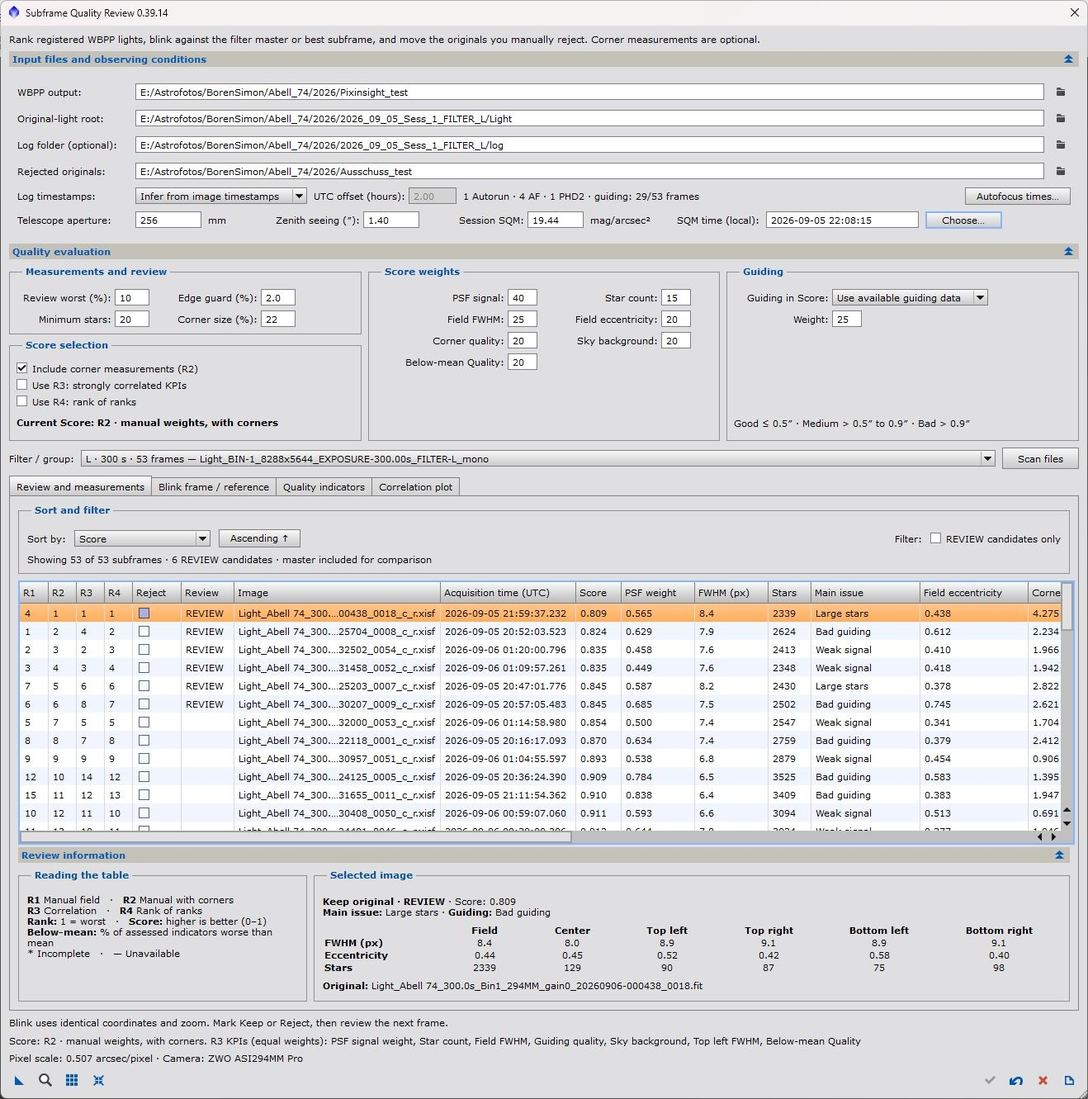
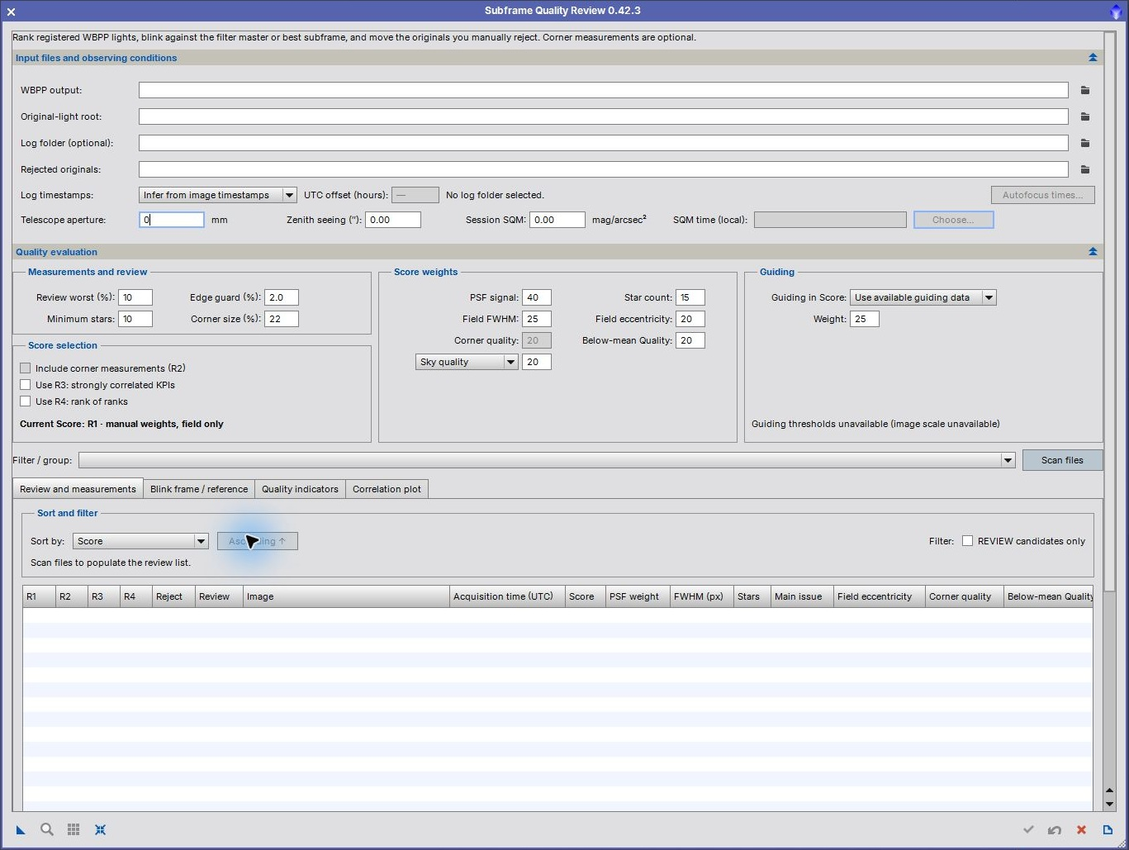
docs: refresh README for current scripts and interfaces
- Update script descriptions, versions, dates, and guide links
- Add Astro Bucket List screenshot and refresh 10 other UI captures
- Document revised Subframe Quality Review scoring and sky indicators
- Label older populated screenshots for later replacement

diff --git a/README.md b/README.md
@@ -39,166 +39,189 @@ To try a newly added script before the next updater release, download or clone t
 
 - **PixInsight:** all current repository scripts require **PixInsight 1.9.5 or later with the V8 scripting engine**. The older scripts and their shared libraries have been migrated to V8, including their dialogs, preview controls, and process constants.
 - **LRGB Deconvolution Match:** requires an installed, licensed **BlurXTerminator** with its AI model.
-- **BBStarReduction:** requires [StarXTerminator](https://www.rc-astro.com/resources/StarXTerminator/) to be installed and configured with an AI model. The script requires an image or preview of at least **256 × 256 pixels**.
+- **BBStarReduction:** automatic starless-image generation requires [StarXTerminator](https://www.rc-astro.com/resources/StarXTerminator/) configured with an AI model and a target of at least **512 × 512 pixels**. You can instead provide an existing, matching starless image without StarXTerminator.
 
-The packaged updater release may lag behind the repository source. To use the V8 migration before it is packaged, follow the manual execution instructions above and keep the scripts together with their `lib` folder. The update manifest currently accepts older PixInsight versions; this does not establish compatibility with the current source.
+The packaged updater release may lag behind the repository source. For manual execution, keep each script with its bundled helpers and the `lib` folder. The update manifest may accept older PixInsight versions; the current scripts require the version listed above.
 
 ## Script overview
 
 | Task | Script | Version | What it does | Last&nbsp;update |
 | --- | --- | --- | --- | --- |
-| Inspect image quality | [AberrationInspectorTG](#aberrationinspectortg) | 2.1 | Builds a configurable grid of image crops for comparing stars across the field. | 2026&#8209;10&#8209;19 |
-| Compare corners | [AberrationSpotterTG](#aberrationspottertg) | 2.1 | Combines the four corners and, optionally, the center in one inspection image. | 2026&#8209;10&#8209;19 |
-| Plan imaging targets | [Astro Bucket List](#astro-bucket-list) | 0.8.0 | Groups Stellarium lists by constellation and month, tracks imaging status, updates catalog information and apparent sizes, and creates survey or local-catalog finder charts framed to each target. | 2026&#8209;10&#8209;29 |
-| Reduce stars | [BBStarReduction](#bbstarreduction) | 1.2 | Applies Bill Blanshan's three star reduction methods, with parameter previews. | 2026&#8209;10&#8209;19 |
-| Select colors | [ColorMaskTG](#colormasktg) | 2.1 | Creates masks from hue, intensity, and saturation ranges. | 2026&#8209;10&#8209;19 |
-| Isolate emission | [CSTG](#cstg) | 2.1 | Subtracts the broadband continuum contribution from a narrowband image. | 2026&#8209;10&#8209;19 |
-| Enhance dark detail | [DarkStructureEnhanceTG](#darkstructureenhancetg) | 2.3 | Increases the visibility of dark structures such as dust lanes. | 2026&#8209;10&#8209;19 |
-| Tune deconvolution | [DeconvolutionPreviewTG](#deconvolutionpreviewtg) | 2.2 | Compares deconvolution results across synthetic point spread function settings. | 2026&#8209;10&#8209;19 |
-| Combine narrowband and RGB | [EmissionLineIntegrationTG](#emissionlineintegrationtg) | 2.1 | Adds continuum-subtracted narrowband emission to RGB channels. | 2026&#8209;10&#8209;19 |
+| Inspect image quality | [AberrationInspectorTG](#aberrationinspectortg) | 2.2.0 | Builds a configurable grid of image crops for comparing stars across the field. | 2026&#8209;10&#8209;30 |
+| Compare corners | [AberrationSpotterTG](#aberrationspottertg) | 2.2.0 | Combines the four corners and, optionally, the center in one inspection image. | 2026&#8209;10&#8209;30 |
+| Plan imaging targets | [Astro Bucket List](#astro-bucket-list) | 0.8.0 | Organizes Stellarium target lists, tracks imaging status, and displays finder charts and DSS images. | 2026&#8209;10&#8209;30 |
+| Reduce stars | [BBStarReduction](#bbstarreduction) | 1.3.0 | Applies Bill Blanshan's three methods using automatic or existing starless data, with comparison previews. | 2026&#8209;10&#8209;30 |
+| Select colors | [ColorMaskTG](#colormasktg) | 2.2.0 | Creates masks from hue, intensity, and saturation ranges. | 2026&#8209;10&#8209;30 |
+| Isolate emission | [CSTG](#cstg) | 2.2.0 | Subtracts the broadband continuum contribution from a narrowband image. | 2026&#8209;10&#8209;30 |
+| Enhance dark detail | [DarkStructureEnhanceTG](#darkstructureenhancetg) | 2.4.0 | Enhances dark structures in stretched images, with a parameter comparison grid. | 2026&#8209;10&#8209;30 |
+| Tune deconvolution | [DeconvolutionPreviewTG](#deconvolutionpreviewtg) | 2.3.0 | Compares synthetic PSF settings on a preview and applies deconvolution to the full image. | 2026&#8209;10&#8209;30 |
+| Combine narrowband and RGB | [EmissionLineIntegrationTG](#emissionlineintegrationtg) | 2.2.1 | Adds continuum-subtracted narrowband emission to RGB channels. | 2026&#8209;10&#8209;30 |
 | Blend linear masters | [Linear Master Blend](#linear-master-blend) | 1.20.1 | Normalizes and integrates two linear masters using measured quality and adjustable sharpness preference. | 2026&#8209;10&#8209;19 |
-| Support deconvolution | [LocalSupportMask](#localsupportmask) | 2.1 | Generates a local support mask for deconvolution deringing. | 2026&#8209;10&#8209;19 |
-| Match L and RGB sharpness | [LRGB Deconvolution Match](#lrgb-deconvolution-match) | 1.13.1 | Uses BlurXTerminator to match stellar halo profiles with estimated sharpening, independent FWHM checks, and blink previews. | 2026&#8209;10&#8209;19 |
+| Support deconvolution | [LocalSupportMask](#localsupportmask) | 2.2.0 | Generates a local support mask for deconvolution deringing. | 2026&#8209;10&#8209;30 |
+| Match L and RGB sharpness | [LRGB Deconvolution Match](#lrgb-deconvolution-match) | 1.13.2 | Uses BlurXTerminator to match stellar halo profiles with estimated sharpening, independent FWHM checks, and blink previews. | 2026&#8209;10&#8209;30 |
 | Match intensity scales | [ROI Linear Fit](#roi-linear-fit) | 1.1.6 | Measures a fit in a selected region and applies it to the full target image. | 2026&#8209;10&#8209;04 |
 | Protect diffraction spikes | [Star Spike Protection Mask](#star-spike-protection-mask) | 1.7.2 | Builds a soft mask protecting bright stellar cores and their spikes. | 2026&#8209;10&#8209;10 |
-| Review WBPP subframes | [Subframe Quality Review](#subframe-quality-review) | 0.39.14 | Ranks registered lights with four rankings, blink and quality plots, SQM/Gaia sky calibration, FWHM grading, and journal-based move and undo for rejected originals. | 2026&#8209;10&#8209;25 |
+| Review WBPP subframes | [Subframe Quality Review](#subframe-quality-review) | 0.42.3 | Reviews registered lights with four rankings, sky quality and transparency indicators, blink, plots, and journal-based rejection and undo. | 2026&#8209;10&#8209;30 |
 | Develop scripts | [TGScriptSkeleton](#tgscriptskeleton) | 1.6 | Provides a reusable dialog, image preview, and process-instance framework. | 2026&#8209;10&#8209;19 |
 
 Versions follow the declarations in the repository source.
 
-Dates use **YYYY-MM-DD** and otherwise reflect the latest Git commit touching each script’s main JavaScript file; documentation and shared-library changes are excluded. The ten migrated legacy scripts include the local V8 compatibility update made on **2026-10-19**.
+Dates use **YYYY-MM-DD** and reflect the latest Git commit touching each script’s main JavaScript file; documentation and shared-library changes are excluded.
 
 ## Script gallery
 
-Each entry links to its source file. Most scripts also provide a documentation button in PixInsight; the bundled guides contain parameter details and examples. Screenshots show actual script interfaces, with some taken from earlier releases. Expand an interface below to view it.
+Each entry links to its source file. Most scripts also provide a documentation button in PixInsight; the bundled guides contain parameter details and examples. Screenshots show actual PixInsight interfaces. The redesigned tools, Astro Bucket List, and Subframe Quality Review setup were captured on **2026-10-30**. Some populated examples remain from earlier releases, as identified in their captions. Expand an interface below to view it.
 
 ### AberrationInspectorTG
 
-**Version:** 2.1 · **Last update:** 2026-10-19
+**Version:** 2.2.0 · **Last update:** 2026-10-30
 
-Creates an **n × n mosaic** of crops sampled across an image, including its corners, edges, and center. Use it to compare star shapes and assess field-dependent aberrations without navigating a large image. The TG version supports panels up to **2048 × 2048 pixels** and saving settings as a process icon.
+Creates an **n × n mosaic** of crops sampled across an image to compare star shapes and field-dependent aberrations. Choose **2–9 rows and columns**, panel sizes up to **2048 × 2048 pixels**, spacing, and background brightness. Odd-sized grids include the center.
 
-Based on Mike Schuster's AberrationInspector. [Source](TGScripts_repository/src/scripts/TGScripts/AberrationInspectorTG.js)
+The redesigned dialog can open an image directly and shows the requested output dimensions. Apply creates a new inspection image and leaves the dialog open for another comparison. Settings can be saved as a process icon.
+
+Based on Mike Schuster's AberrationInspector. [Source](TGScripts_repository/src/scripts/TGScripts/AberrationInspectorTG.js) · [Guide](TGScripts_repository/doc/scripts/AberrationInspectorTG/AberrationInspectorTG.html)
 
 <details>
 <summary>View AberrationInspectorTG interface</summary>
 
-![AberrationInspectorTG dialog with image selection and mosaic size controls](TGScripts_repository/doc/scripts/AberrationInspectorTG/images/AberrationInspectorTG_main_screen.png)
+![AberrationInspectorTG 2.2.0 dialog with image selection, mosaic layout, appearance, and output dimensions](TGScripts_repository/images/AberrationInspectorTG_main_screen.jpg)
 
 </details>
 
 ### AberrationSpotterTG
 
-**Version:** 2.1 · **Last update:** 2026-10-19
+**Version:** 2.2.0 · **Last update:** 2026-10-30
 
-Collects the **four corners of the active image**, with an optional center crop, into a single inspection image. Set the horizontal and vertical crop sizes, spacing, and background brightness to make comparisons easier. The TG version supports crops up to **2048 × 2048 pixels** and reusable process icons.
+Collects the **four corners of a selected image**, with an optional center crop, into one inspection image. Set horizontal and vertical crop sizes up to **2048 × 2048 pixels**, spacing, and background brightness to compare optical performance across the field.
 
-Based on David Serrano's AberrationSpotter. [Source](TGScripts_repository/src/scripts/TGScripts/AberrationSpotterTG.js)
+Select an open image or load one from the dialog. The output summary shows the montage dimensions; Apply creates a new image and keeps the dialog open. Settings can be saved as a process icon.
+
+Based on David Serrano's AberrationSpotter. [Source](TGScripts_repository/src/scripts/TGScripts/AberrationSpotterTG.js) · [Guide](TGScripts_repository/doc/scripts/AberrationSpotterTG/AberrationSpotterTG.html)
 
 <details>
 <summary>View AberrationSpotterTG interface</summary>
 
-![AberrationSpotterTG dialog with crop dimensions, spacing, and center toggle](TGScripts_repository/doc/scripts/AberrationSpotterTG/images/AberrationSpotterTG_main_screen.png)
+![AberrationSpotterTG 2.2.0 dialog with image selection, corner and center panels, spacing, and output dimensions](TGScripts_repository/images/AberrationSpotterTG_main_screen.jpg)
 
 </details>
 
 ### Astro Bucket List
 
-**Version:** 0.8.0 · **Added to repository:** 2026-10-29
+**Version:** 0.8.0 · **Last update:** 2026-10-30
 
-Maintains **Stellarium observing lists** grouped by IAU constellation and planning month, with searchable object-type, filter and comments columns. A configuration gear provides constellation planning settings, and Add object prevents duplicates across the collection. Check objects to export a selected subset as a new Stellarium list. Use Edit object to record imaging status independently. Import and export one or more lists in a `.sol` file, add objects by catalog identifier, and keep imaging flags, editable dates, descriptions, catalog information and notes with the collection. Manual catalog text survives lookups, and leftover hollow-circle source markers are removed from saved comments. Start with an empty list or open your own collection. The New Instance triangle stores the saved collection path in a PixInsight process icon.
+Organizes **Stellarium observing lists** by IAU constellation and configurable planning month. Search and filter targets, add objects by catalog identifier, and record imaging status, dates, descriptions, filters, and notes. Export checkboxes select objects for a Stellarium list independently of their imaging status. Import, save, and export collections as `.sol` files.
 
-The main window has **Table**, **Finder chart** and **DSS survey image** tabs. Calendar-month sorting retains constellation groups and export selections. The previews offer DSS2 Red survey images and **monochrome sky charts**. Oversized DSS targets always use the maximum allowed width, independent of automatic fitting. Sky charts use configured local Gaia catalogs, including DR3/SP, or bundled bright stars when Gaia is unavailable. Maps use gray stars and constellation names on black, with object-size framing and no image-FOV rectangle. They work offline; new SIMBAD lookups and DSS downloads require internet access.
+The **Table**, **Finder chart**, and **DSS survey image** tabs combine list management with target previews. SIMBAD lookups update catalog information and apparent sizes. Monochrome finder charts use configured local Gaia catalogs, including DR3/SP, or bundled bright stars; object sizes guide framing. Local charts work offline, while new SIMBAD lookups and DSS downloads require internet access. DSS fields are limited to **5–120 arcminutes**, with oversized targets using the maximum width.
 
-Requires **PixInsight 1.9.5+ with V8** and the bundled CatalogStarGenerator and AnnotateImage libraries. Choose **Script → TG Scripts → Astro Bucket List** to open the manager. Constellation planning months are configurable and saved with each collection. Save your working `.sol` collection outside the installation directory so a repository update cannot replace it. [Source](TGScripts_repository/src/scripts/TGScripts/AstroBucketList.js) · [Guide](TGScripts_repository/doc/scripts/AstroBucketList/AstroBucketList.html) · [PiDoc source](TGScripts_repository/doc/source/AstroBucketList.pidoc)
+Requires **PixInsight 1.9.5+ with V8** and the bundled CatalogStarGenerator and AnnotateImage libraries. Save working collections outside the installation directory. The New Instance triangle stores the saved collection path in a process icon. [Source](TGScripts_repository/src/scripts/TGScripts/AstroBucketList.js) · [Guide](TGScripts_repository/doc/scripts/AstroBucketList/AstroBucketList.html) · [PiDoc source](TGScripts_repository/doc/source/AstroBucketList.pidoc)
+
+<details>
+<summary>View Astro Bucket List interface</summary>
+
+![Astro Bucket List 0.8.0 setup with collection controls, constellation planning, Table, Finder chart and DSS tabs](TGScripts_repository/images/AstroBucketList_main_screen.jpg)
+
+</details>
 
 ### BBStarReduction
 
-**Version:** 1.2 · **Last update:** 2026-10-19
+**Version:** 1.3.0 · **Last update:** 2026-10-30
 
-Reduces the prominence of stars in a **stretched image** using Bill Blanshan's **Transfer, Halo, or Star** method. It automates starless-image generation with StarXTerminator and offers a preview for comparing reduction settings before applying them to the target.
+Reduces stars in a **stretched grayscale or RGB image** using Bill Blanshan's **Transfer, Halo, or Star** method. Generate a temporary starless image with StarXTerminator, or select an **existing starless image** with matching dimensions, channels, alignment, and stretch.
 
-Requires StarXTerminator; see [troubleshooting](#starxterminator-io-error-in-bbstarreduction) if star removal fails. [Source](TGScripts_repository/src/scripts/TGScripts/BBStarReduction.js)
+Use a preview of at least **64 × 64 pixels** to create a labeled comparison grid. Apply processes the full target and creates a **new image by default**; disable that option to modify the target with one Undo step. Automatic star removal requires a configured StarXTerminator and a target of at least **512 × 512 pixels**; an existing starless image avoids that dependency.
+
+[Source](TGScripts_repository/src/scripts/TGScripts/BBStarReduction.js) · [Guide](TGScripts_repository/doc/scripts/BBStarReduction/BBStarReduction.html)
 
 <details>
 <summary>View BBStarReduction interface</summary>
 
-![BBStarReduction dialog showing the three reduction methods and preview selection](TGScripts_repository/doc/scripts/BBStarReduction/images/BBStarReduction_main_screen.png)
+![BBStarReduction 1.3.0 dialog with existing starless image option, reduction methods, comparison preview, and output controls](TGScripts_repository/images/BBStarReduction_main_screen.jpg)
 
 </details>
 
 ### ColorMaskTG
 
-**Version:** 2.1 · **Last update:** 2026-10-19
+**Version:** 2.2.0 · **Last update:** 2026-10-30
 
-Creates masks that select a **color range**, refined by **intensity and saturation limits**. Choose a preset color or a custom hue interval, then control mask weighting, strength, and smoothing. The expanded options include chrominance, lightness, inverse lightness, and linear mask types for selective image adjustments.
+Creates a **grayscale mask from an RGB color range**, refined by intensity and saturation limits. Choose a preset or custom hue interval, including ranges crossing red, then select Linear, Chrominance, Lightness, or Inverse lightness weighting. Strength, blur layers, and output name control the result.
 
-Based on Rick Stevenson's ColorMask, with fixes and additional mask-generation controls. [Source](TGScripts_repository/src/scripts/TGScripts/ColorMaskTG.js)
+Select or open the target from the dialog. Apply creates a new 32-bit floating-point mask and leaves the source unchanged; assign the result as an image mask in PixInsight.
+
+Based on Rick Stevenson's ColorMask. [Source](TGScripts_repository/src/scripts/TGScripts/ColorMaskTG.js) · [Guide](TGScripts_repository/doc/scripts/ColorMaskTG/ColorMaskTG.html)
 
 <details>
 <summary>View ColorMaskTG interface</summary>
 
-![ColorMaskTG dialog with hue, intensity, saturation, mask type, and blur controls](TGScripts_repository/doc/scripts/ColorMaskTG/images/ColorMaskTG_main_screen.png)
+![ColorMaskTG 2.2.0 dialog with RGB selection, hue presets, intensity and saturation limits, and mask output controls](TGScripts_repository/images/ColorMaskTG_main_screen.jpg)
 
 </details>
 
 ### CSTG
 
-**Version:** 2.1 · **Last update:** 2026-10-19
+**Version:** 2.2.0 · **Last update:** 2026-10-30
 
-Performs **continuum subtraction** to separate emission-line signal from the continuum contribution in a narrowband image. Supply a grayscale narrowband image and a corresponding broadband image or RGB channel. Optional controls include a star mask, noise reduction, and diagnostic curves for the subtraction-factor evaluation.
+Performs **continuum subtraction** to isolate emission-line signal in a linear narrowband image. Supply an aligned grayscale narrowband image and an equally sized broadband image or RGB channel. An optional grayscale star mask excludes bright pixels from estimation.
 
-Based on Hartmut V. Bornemann's CS script, with process-icon support and bundled documentation. [Source](TGScripts_repository/src/scripts/TGScripts/CSTG.js)
+The script matches the broadband mean to the narrowband image and estimates the subtraction factor from the black-pixel response curve. Optional noise reduction and a **native PixInsight diagnostic plot** help inspect the result. Apply creates a new 32-bit floating-point emission image and keeps both inputs unchanged.
+
+Based on Hartmut V. Bornemann's CS script. [Source](TGScripts_repository/src/scripts/TGScripts/CSTG.js) · [Guide](TGScripts_repository/doc/scripts/CSTG/CSTG.html)
 
 <details>
 <summary>View CSTG interface</summary>
 
-![CSTG dialog with narrowband and broadband inputs and subtraction options](TGScripts_repository/doc/scripts/CSTG/images/CSTG_main_screen.png)
+![CSTG 2.2.0 dialog with narrowband, broadband and mask inputs, continuum estimate, noise reduction, and diagnostic plot](TGScripts_repository/images/CSTG_main_screen.jpg)
 
 </details>
 
 ### DarkStructureEnhanceTG
 
-**Version:** 2.3 · **Last update:** 2026-10-19
+**Version:** 2.4.0 · **Last update:** 2026-10-30
 
-Enhances **dark structures**, such as dust lanes, using a generated mask and adjustable enhancement strength and iterations. It can also extract the mask and preview the effect on a selected image preview. The bundled guide recommends linear data; the script warns when the selected image appears nonlinear.
+Enhances **dark structures in stretched grayscale or RGB images**, such as dust lanes, using a wavelet-derived mask. Adjust the mask layers, scaling function, enhancement amount, and iterations; optionally retain the generated mask.
 
-Based on DarkStructureEnhance by Carlos Sonnenstein and Oriol Lehmkuhl, with preview and process-icon support. [Source](TGScripts_repository/src/scripts/TGScripts/DarkStructureEnhanceTG.js)
+A preview of at least **64 × 64 pixels** can generate a **3 × 3 comparison grid**, with layers across columns and amount down rows. Apply always processes the full target, creating a **new image by default** or modifying the target with one Undo step when that option is disabled.
+
+Based on DarkStructureEnhance by Carlos Sonnenstein and Oriol Lehmkuhl. [Source](TGScripts_repository/src/scripts/TGScripts/DarkStructureEnhanceTG.js) · [Guide](TGScripts_repository/doc/scripts/DarkStructureEnhanceTG/DarkStructureEnhanceTG.html)
 
 <details>
 <summary>View DarkStructureEnhanceTG interface</summary>
 
-![DarkStructureEnhanceTG dialog with mask parameters, amount, iterations, and preview](TGScripts_repository/doc/scripts/DarkStructureEnhanceTG/images/DarkStructureEnhanceTG_main_screen.png)
+![DarkStructureEnhanceTG 2.4.0 dialog with stretched-image selection, structure mask, enhancement, comparison preview, and output controls](TGScripts_repository/images/DarkStructureEnhanceTG_main_screen.jpg)
 
 </details>
 
 ### DeconvolutionPreviewTG
 
-**Version:** 2.2 · **Last update:** 2026-10-19
+**Version:** 2.3.0 · **Last update:** 2026-10-30
 
-Generates a comparison of deconvolution results while varying the **sigma and shape of a synthetic point spread function (PSF)**. Work on a PixInsight image preview to inspect a representative region at a useful scale. Controls include deconvolution iterations, deringing, and a local support mask; the current settings can also be applied to the selected preview.
+Compares deconvolution results across the **sigma and shape of a synthetic point spread function (PSF)**. Use a preview of at least **64 × 64 pixels** on a linear grayscale or RGB image, then set the start, step, and count for each PSF parameter. Controls include iterations, dark deringing, and an optional registered grayscale local support mask.
 
-Based on Juan M. Gómez's DeconvolutionPreview, adapted for preview-based evaluation and process-icon workflows. [Source](TGScripts_repository/src/scripts/TGScripts/DeconvolutionPreviewTG.js)
+The comparison grid varies sigma across columns and shape down rows. **Apply processes the full target using the Start values**, creating a new image by default; disabling that option modifies the target with one Undo step.
+
+Based on Juan M. Gómez's DeconvolutionPreview. [Source](TGScripts_repository/src/scripts/TGScripts/DeconvolutionPreviewTG.js) · [Guide](TGScripts_repository/doc/scripts/DeconvolutionPreviewTG/DeconvolutionPreviewTG.html)
 
 <details>
 <summary>View DeconvolutionPreviewTG interface</summary>
 
-![DeconvolutionPreviewTG dialog showing PSF parameter ranges and deringing controls](TGScripts_repository/doc/scripts/DeconvolutionPreviewTG/images/DeconvolutionPreviewTG_main_screen.png)
+![DeconvolutionPreviewTG 2.3.0 dialog with target and preview selection, PSF ranges, deringing, support mask, and full-image output](TGScripts_repository/images/DeconvolutionPreviewTG_main_screen.jpg)
 
 </details>
 
 ### EmissionLineIntegrationTG
 
-**Version:** 2.1 · **Last update:** 2026-10-19
+**Version:** 2.2.1 · **Last update:** 2026-10-30
 
-Combines **narrowband emission with a broadband RGB image**. It estimates and subtracts the continuum contribution, then adds the emission signal to the selected RGB channels with independent amplification controls. Start with an active RGB image and corresponding, registered narrowband data for at least one channel. The dialog provides an image preview and options to retain the emission views.
+Adds **continuum-subtracted narrowband emission to a linear RGB image**. Supply aligned, equally sized grayscale narrowband data for at least one RGB channel, with independent amplification controls. An optional grayscale star mask affects continuum estimation only; channels without narrowband input remain unchanged.
 
-Based on Hartmut V. Bornemann's EmissionLineIntegration, with changes to speed up continuum evaluation. [Source](TGScripts_repository/src/scripts/TGScripts/EmissionLineIntegrationTG.js)
+The compact dialog can open each input directly. Its magnifier opens a **separate Original RGB / With emission comparison** for a selected preview, while estimation uses the full images. Apply creates a new RGB image by default, or modifies the target with one Undo step when that option is disabled. Separate emission images can be retained.
+
+Based on Hartmut V. Bornemann's EmissionLineIntegration. [Source](TGScripts_repository/src/scripts/TGScripts/EmissionLineIntegrationTG.js) · [Guide](TGScripts_repository/doc/scripts/EmissionLineIntegrationTG/EmissionLineIntegrationTG.html)
 
 <details>
 <summary>View EmissionLineIntegrationTG interface</summary>
 
-![EmissionLineIntegrationTG dialog with RGB preview and narrowband channel controls](TGScripts_repository/images/EmissionLineIntegrationTG_main_screen.jpg)
+![EmissionLineIntegrationTG 2.2.1 dialog with RGB and narrowband inputs, amplification, optional mask, and output controls](TGScripts_repository/images/EmissionLineIntegrationTG_main_screen.jpg)
 
 </details>
 
@@ -229,22 +252,24 @@ Use registered, cropped floating-point images with identical dimensions and matc
 
 ### LocalSupportMask
 
-**Version:** 2.1 · **Last update:** 2026-10-19
+**Version:** 2.2.0 · **Last update:** 2026-10-30
 
-Creates a **local support mask for deconvolution deringing**, helping protect stars during deconvolution. Adjust mask strength, scale, smoothness, and structure growth, then inspect the mask preview. Use a **linear main image**; both grayscale and RGB are supported, with luminance data recommended in the guide.
+Creates a **grayscale local support mask for deconvolution deringing** from a linear grayscale or RGB main image. Adjust mask strength, scale, structure growth, compensation, and smoothness. RGB inputs are converted to luminance internally.
 
-[Source](TGScripts_repository/src/scripts/TGScripts/LocalSupportMask.js)
+The redesigned dialog opens **separate preview images** for intermediate luminance or the star-mask overlay. Apply creates the final support mask; the source image stays unchanged.
+
+[Source](TGScripts_repository/src/scripts/TGScripts/LocalSupportMask.js) · [Guide](TGScripts_repository/doc/scripts/LocalSupportMask/LocalSupportMask.html)
 
 <details>
 <summary>View LocalSupportMask interface</summary>
 
-![LocalSupportMask dialog with mask generation controls and an image preview](TGScripts_repository/doc/scripts/LocalSupportMask/images/LocalSupportMask_main_screen.png)
+![LocalSupportMask 2.2.0 dialog with target selection, mask parameters, and separate preview-image controls](TGScripts_repository/images/LocalSupportMask_main_screen.jpg)
 
 </details>
 
 ### LRGB Deconvolution Match
 
-**Version:** 1.13.1 · **Last update:** 2026-10-19
+**Version:** 1.13.2 · **Last update:** 2026-10-30
 
 Prepares **registered linear luminance and RGB images for LRGB composition**, including data from different telescopes and original pixel scales. Choose the sharper reference yourself or let the script select it from measured stellar FWHM. Set its BlurXTerminator **Sharpen Stars** and **Adjust Star Halos**, then inspect the **Reference before/after** preview.
 
@@ -305,19 +330,20 @@ Designed for a **stretched stars-only image** with roughly straight spikes on tw
 
 ### Subframe Quality Review
 
-**Version:** 0.39.14 · **Last update:** 2026-10-25
+**Version:** 0.42.3 · **Last update:** 2026-10-30
 
-Reviews **registered light frames from a completed WeightedBatchPreprocessing (WBPP) run** to help decide which original exposures to exclude before rerunning WBPP. It measures PSF signal weight, star count, FWHM, eccentricity, and sky background, with optional center/corner measurements and guiding-log data. **Score ranges from 0 to 1; higher is better.** Scores describe relative quality within each filter/exposure group. **Below-mean Quality** reports the percentage of assessed, enabled indicators worse than their group mean.
+Reviews **registered light frames from a completed WeightedBatchPreprocessing (WBPP) run** to help decide which original exposures to exclude before rerunning WBPP. It measures PSF signal weight, star count, FWHM, eccentricity, sky brightness, relative transparency, and sky quality, with optional center/corner measurements and guiding-log data. **Score ranges from 0 to 1; higher is better.** Scores describe relative quality within each filter/exposure group. **Below-mean Quality** reports the percentage of assessed, enabled indicators worse than their group mean. Its baseline includes manually rejected subframes and excludes masters; switching Score modes does not change its manual indicator selection.
 
-- **Four comparison rankings:** **R1** uses manual weights for field quality; **R2** adds corners; **R3** equally weights indicators strongly correlated with PSF signal weight (absolute Pearson correlation ≥ 0.7), retaining PSF signal weight as its anchor; **R4** averages the available normalized R1–R3 ranks. Rank **1 is worst**. The **Score selection** panel identifies the current mode and offers **Include corner measurements (R2)**, **Use R3: strongly correlated KPIs**, and **Use R4: rank of ranks**. Unavailable ranks are omitted from R4, as is R2 when corner scoring is off.
-- **Review and measurements:** shortlists the worst **10%** by default and flags missing required measurements. Sorting, a REVIEW-only filter, tooltips, and collapsible information panels help inspect individual frames. The magnifier measures the field; the adjacent **Measure corners** grid button measures the center and four corners. Repeated measurement reuses unchanged results and sky calibration; previews load when needed.
+- **Four comparison rankings:** **R1** uses manual weights for field quality; **R2** adds corners; **R3** equally weights indicators strongly correlated with PSF signal weight (absolute Pearson correlation ≥ 0.7), using PSF signal weight only as the correlation reference, with no direct R3 contribution; **R4** averages the available normalized R1–R3 ranks. Rank **1 is worst**. The **Score selection** panel identifies the current mode and offers **Include corner measurements (R2)**, **Use R3: strongly correlated KPIs**, and **Use R4: rank of ranks**. Unavailable ranks are omitted from R4, as is R2 when corner scoring is off. R3 can include qualifying individual corner FWHM/eccentricity indicators. If none qualify, R3 remains unavailable and the active Score falls back to manual evaluation.
+- **Review and measurements:** shortlists the worst **10%** by default and flags missing required measurements. Sorting, a REVIEW-only filter, tooltips, and collapsible information panels help inspect individual frames. The magnifier measures the field; the adjacent **Measure corners** grid button measures the center and four corners. Repeated measurement reuses unchanged results and sky calibration; previews load when needed. Corner measurements automatically adapt parallel processing to available CPU and memory. The resizable dialog provides scrolling and collapsible panels while keeping its action bar accessible.
+- **Sky indicator selection:** choose **Sky quality** (default, weight **20**), **Transparency**, or **Sky brightness** for the sky contribution to scoring. Transparency compares matched, background-subtracted stellar flux per second, relative to the best comparable reference; RGB uses green, and at least **10 common stars** are required. Sky quality combines relative transparency with exposure-normalized, pedestal-corrected sky brightness as a relative signal-to-noise proxy; the reference is **100%**, and higher values are possible. Only the selected sky indicator contributes, avoiding double-counting the three measures. These are relative comparisons, not absolute atmospheric measurements.
 - **Blink frame / reference:** compare with the best scoring subframe or matching linear filter master, rotate through subframes in the visible Review order, or cycle through regions. Playback intervals of **0.10–10 seconds**, preserved zoom/pan, display stretching, and brightness alignment aid comparison without changing source pixels.
-- **Quality and correlation plots:** inspect one bar per frame by value or acquisition time, with master comparison, a mean for non-rejected frames, and optional autofocus-start markers. Blue information buttons explain the indicators, plot legend, and calibration. Eccentricity bands use **0.42** and **0.60**; the field-eccentricity axis adapts to the data, while regional plots retain a 0–1 axis. The scatter plot compares two selectable indicators and explains their Pearson correlation.
+- **Quality and correlation plots:** inspect one bar per frame by value or acquisition time, with master comparison for measured indicators, a mean for non-rejected frames, and optional autofocus-start markers. **Masters receive no Score or R1–R4 ranks** and are excluded from score baselines and the REVIEW quota; they remain available for measurement comparisons and blink. Blue information buttons explain the indicators, plot legend, and calibration. Eccentricity bands use **0.42** and **0.60**; field, center, and corner eccentricity axes adapt to the data within 0–1. The scatter plot compares two selectable indicators and explains their Pearson correlation.
 - **FWHM grading:** enter telescope aperture and optional **Zenith seeing** in **Input files and observing conditions**, then open the settings icon on a field, center, or corner FWHM plot. Good/Medium/Bad bands account for aperture, image scale, target altitude, wavelength, and optional optical blur. With a seeing estimate, the default Good/Medium limits are **115%/135%** of expected FWHM; otherwise fixed seeing limits are used. The dialog shows the resulting limits in pixels.
-- **Sky background and SQM:** background uses the lowest mean of the center and four corner previews when corner scoring is enabled, otherwise the whole-image mean; RGB uses the **green channel**. Enter **Session SQM** and its local date/time to anchor relative sky-brightness estimates to the eligible exposure nearest that time. A pink dashed line marks the SQM reference, and an approximate Bortle class determines the quality shading. The log-derived time preset can be corrected directly or with **Choose**. Without SQM, select a Bortle class to calibrate with local Gaia photometry, or choose **—** to disable calibration and shading. Stars, nebulosity, gradients, and transparency affect these estimates; Bortle ranges are approximate.
+- **Sky brightness and SQM:** background uses the lowest mean of the center and four corner previews when corner scoring is enabled, otherwise the whole-image mean; RGB uses the **green channel**. Enter **Session SQM** and its local date/time to anchor relative sky-brightness estimates to the eligible exposure nearest that time. A pink dashed line marks the SQM reference, and an approximate Bortle class determines the quality shading. The log-derived time preset can be corrected directly or with **Choose**. Without SQM, select a Bortle class to calibrate with local Gaia photometry, or choose **—** to disable calibration and shading. Stars, nebulosity, gradients, and transparency affect these estimates; Bortle ranges are approximate.
 - **Guiding and logs:** an optional folder supplies Autorun autofocus events and PHD2 samples matched to each exposure. Minimum, average, and maximum guiding errors appear in arcseconds, with bands based on the imaging pixel scale. **Use available guiding data** is the default; **Require guiding data** and **Ignore guiding KPI** remain available.
 
-**FWHM, eccentricity, and sky-brightness bands are visual inspection guides; their grading settings do not change Score, REVIEW, or rejection decisions.** FWHM grading requires a configured aperture and valid image scale. Sky calibration supports luminance, green, V, and RGB green-channel data in compatible acquisition groups. The Gaia method additionally requires sky coordinates and a configured local Gaia DR3/SP, DR3, or EDR3 catalog. Supplying SQM uses the reading directly; a missing or ambiguous reading time leaves calibration unavailable rather than falling back to Gaia.
+**FWHM, eccentricity, and sky-brightness bands are visual inspection guides; their grading settings do not change Score, REVIEW, or rejection decisions.** FWHM grading requires a configured aperture and valid image scale. Sky calibration supports luminance, green, V, and RGB green-channel data in compatible acquisition groups; separate red and blue groups can reuse a compatible measured green group's calibration. The Gaia method additionally requires sky coordinates and a configured local Gaia DR3/SP, DR3, or EDR3 catalog. Supplying SQM uses the reading directly; a missing or ambiguous reading time leaves calibration unavailable rather than falling back to Gaia.
 
 **REVIEW is a suggestion, not a rejection decision.** Mark unwanted originals manually, then use the green checkmark to inspect and confirm the move plan. Only uniquely verified original lights are moved, preserving relative subdirectories and recording a move journal. The **Undo** arrow can restore eligible files from that journal, even after reopening the script, without overwriting existing files; scan the files and configure the rejected-originals destination first. Refresh WBPP's inputs before rerunning it. Measurements, calibration, and pending decisions last only while the dialog stays open; process instances save settings, not the measured session.
 
@@ -326,19 +352,23 @@ Requires **PixInsight 1.9.5+ with V8**. Supports XISF/FITS monochrome and regist
 <details>
 <summary>View Subframe Quality Review interface</summary>
 
-**Review and measurements**
+**Current setup — 0.42.3**
 
-![Subframe Quality Review 0.39.14 reviewing 53 luminance frames of Abell 74, with observing conditions, R1–R4 rankings, and selected-image measurements](TGScripts_repository/images/SubframeQualityReview_main_screen.jpg)
+![Subframe Quality Review 0.42.3 setup with observing conditions, R1–R4 scoring, sky indicator selection, guiding, and review tabs](TGScripts_repository/images/SubframeQualityReview_main_screen.jpg)
+
+**Earlier populated examples — 0.39.14**
+
+The following images illustrate a previously measured Abell 74 session. Their layout and scoring predate 0.42.3: current versions exclude masters from Score and rankings, use the revised R3 selection, and offer the new sky indicators. Updated populated examples will replace these in a later refresh.
 
 **Blink frame / reference**
 
 ![Subframe Quality Review 0.39.14 Abell 74 blink preview with best-subframe reference, region controls, adjustable playback interval, and display stretching](TGScripts_repository/images/SubframeQualityReview_blink_preview.jpg)
 
-**Quality indicators — Score, higher is better**
+**Earlier Score plot — 0.39.14**
 
 ![Subframe Quality Review 0.39.14 Score plot in ascending value order, with review candidates, selected frame, mean, and master comparison](TGScripts_repository/images/SubframeQualityReview_quality_indicators.jpg)
 
-**Sky background — SQM reference and Bortle shading**
+**Earlier Sky background plot — now named Sky brightness**
 
 ![Subframe Quality Review 0.39.14 sky-background plot with the session SQM 19.44 reference line, Bortle 6 quality shading, mean, and master comparison](TGScripts_repository/images/SubframeQualityReview_sky_background.jpg)
 
@@ -383,13 +413,13 @@ A **development template** for building PixInsight scripts. It provides image se
 
 ### Documentation and reusable settings
 
-Use a script's documentation or information button for parameter explanations and examples, where provided. The compiled guides are stored in [TGScripts_repository/doc/scripts](TGScripts_repository/doc/scripts). EmissionLineIntegrationTG currently has no separate bundled guide; refer to its interface tooltips and source comments.
+Use a script's documentation or information button for parameter explanations and examples, where provided. The compiled guides are stored in [TGScripts_repository/doc/scripts](TGScripts_repository/doc/scripts), including the new [EmissionLineIntegrationTG guide](TGScripts_repository/doc/scripts/EmissionLineIntegrationTG/EmissionLineIntegrationTG.html).
 
 Scripts with a **New Instance** triangle can store their settings in a PixInsight process icon. Save your process icons or project to reuse these settings in later sessions. Consult the individual guide before applying an instance to an image, since execution behavior varies by script.
 
-### StarXTerminator I/O error in BBStarReduction
+### StarXTerminator in BBStarReduction
 
-If BBStarReduction produces no visible reduction, check the PixInsight Process Console. For the documented StarXTerminator I/O error, **open the StarXTerminator process interface once**, then close it and retry BBStarReduction. You do not need to execute StarXTerminator manually. The workaround may need to be repeated after restarting PixInsight.
+If automatic star removal fails, check the PixInsight Process Console and confirm that StarXTerminator is installed, licensed, and configured with its AI model. The automatic mode requires a target of at least **512 × 512 pixels**. Alternatively, enable **Use an existing starless image** and select a matching starless view.
 
 ### Reporting a problem
 
@@ -401,7 +431,7 @@ Please [open an issue](https://github.com/norman123al/TGScripts/issues) with the
 | --- | --- |
 | [TGScripts_repository/src/scripts/TGScripts](TGScripts_repository/src/scripts/TGScripts) | The 16 menu scripts, with script-specific helpers and data. |
 | [TGScripts_repository/src/scripts/TGScripts/lib](TGScripts_repository/src/scripts/TGScripts/lib) | Shared helpers and libraries used by the scripts. |
-| [TGScripts_repository/doc/source](TGScripts_repository/doc/source) | PiDoc sources for newer script guides. |
+| [TGScripts_repository/doc/source](TGScripts_repository/doc/source) | PiDoc sources for the script guides. |
 | [TGScripts_repository/doc/scripts](TGScripts_repository/doc/scripts) | Compiled PixInsight documentation and guide images. |
 | [TGScripts_repository/images](TGScripts_repository/images) | Installation images and additional README screenshots. |
 | [TGScripts_repository/updates.xri](TGScripts_repository/updates.xri) | PixInsight update manifest. |
